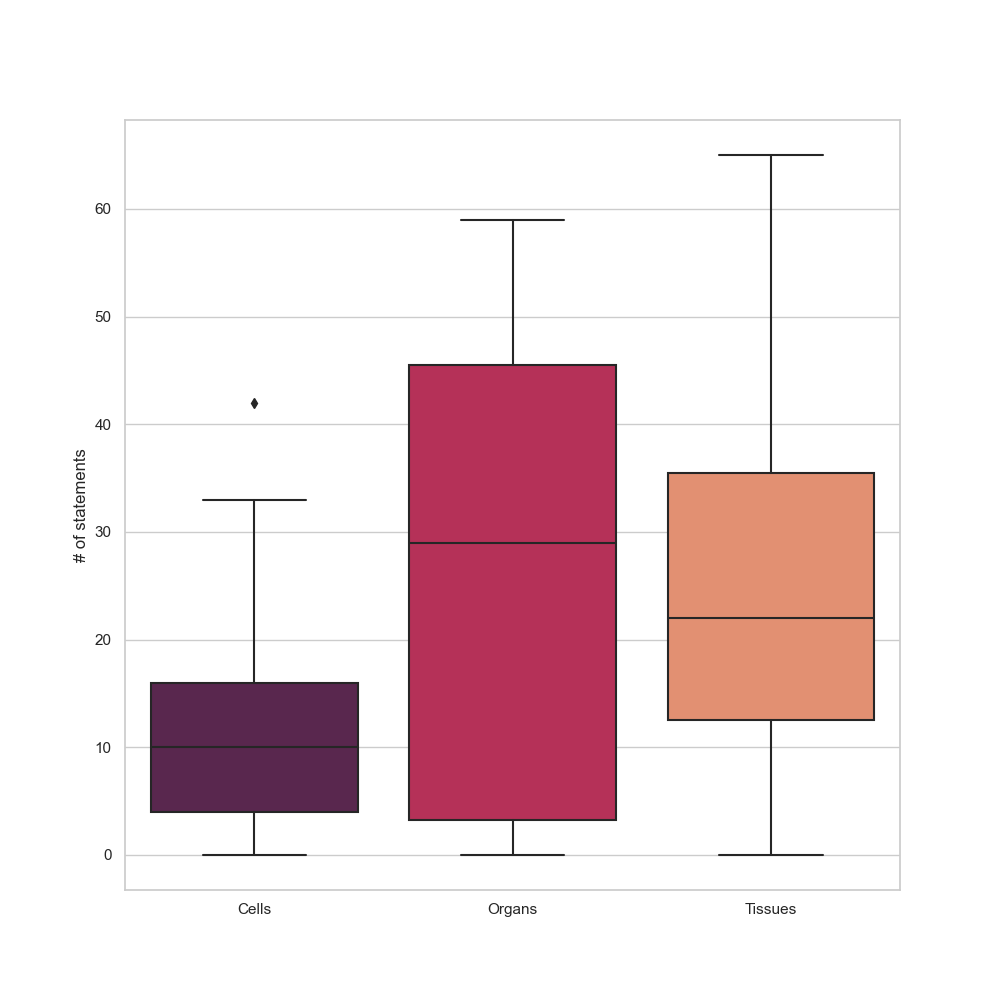
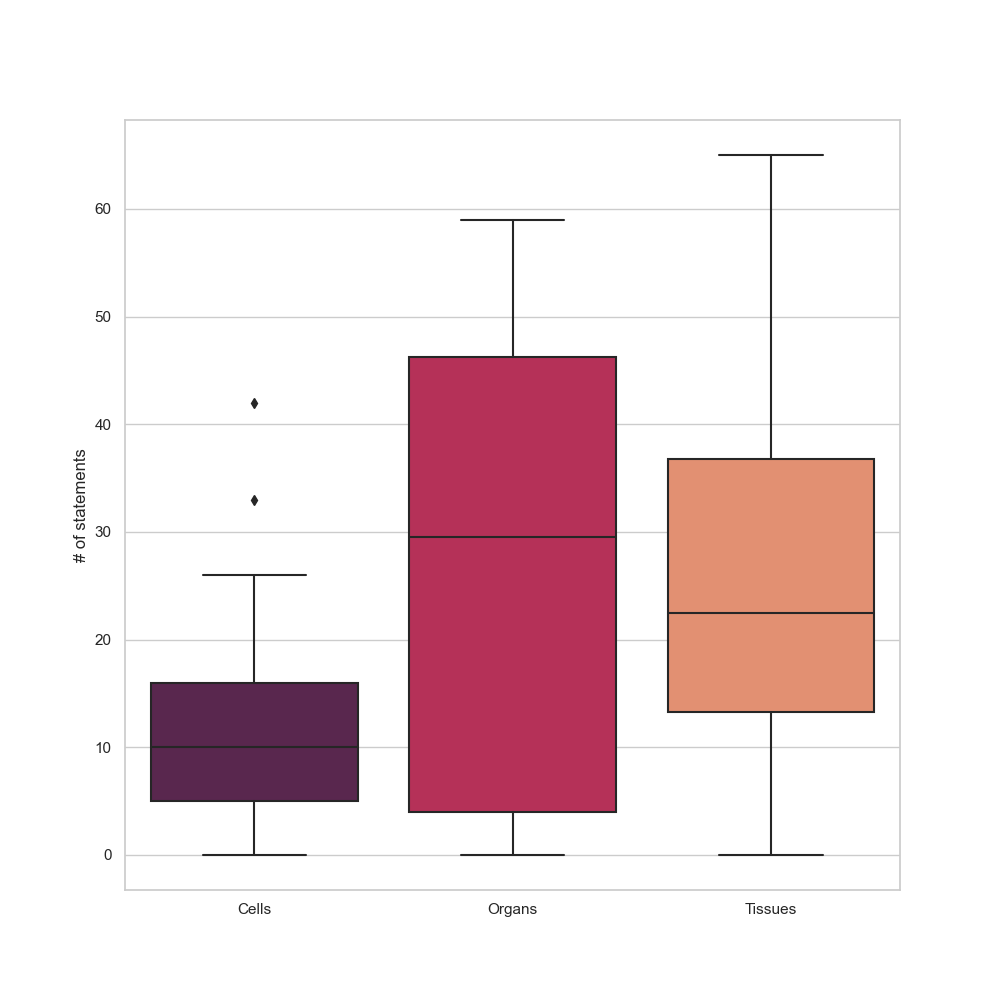
chore: Reproduce item quality assessment
Reproducing the assessment now using the matches removed by the
remove_false_matches script and including the newly reconciled organ
data. Updating the conda env.

diff --git a/manuscripts/drafts/matches.md b/manuscripts/drafts/matches.md
@@ -5,13 +5,14 @@ After reconciliation, items were manually checked for false matches - items with
 
 Depicted in Table 1 are also matches for gene data, which were acquired using manual intersection of both sources, via a Pandas inner merge. This data didn't go through reconciliation because of it's size, but since both ends are dealing with identifiers (Gene Symbol), the item matching should work much better than with histological entities, which are described in natural language.
 
-|         |   # of unique matches  |   # of matched items |   % of total items that were matched |   % of matches that were perfect |   % of matches that don‘t have P31 |
-|:--------|-------------------:|-----------------:|---------------:|---------------------------:|------------------:|
-| Cells   |                 81 |               85 |        37.6744 |                    38.8235 |           55.2941 |
-| Tissues |                 79 |               87 |        32.1138 |                    62.069  |           37.931  |
-| Organs  |                 22 |               30 |        75.8621 |                    53.3333 |           46.6667 |
-| Human Genes |                 35423 |               35427 |        60.847533 |                    NA      |           NA      |
-| Mouse Genes  |                 25124 |               25127 |        46.704962 |                    NA      |           NA      |
+|         |   # of unique matches  |   # of matched items |   % of total items that were matched |   % of matches that were perfect |   % of matches that don‘t have P31 | Totals |
+|:----------|-------------------:|-----------------:|---------------:|---------------------------:|------------------:|---------:|
+| Cells     |                 81 |               85 |        37.6744 |                    38.8235 |           55.2941 |      215 |
+| Tissues   |                 79 |               86 |        32.1138 |                    62.7907 |           37.2093 |      246 |
+| Organs    |                 22 |               30 |        75.8621 |                    60      |           40      |       29 |
+| Human Genes |              35423 |            35427 |        60.8475 |                   nan      |          nan      |    58216 |
+| Mouse Genes |              25124 |            25127 |        46.705  |                   nan      |          nan      |    53793 |
+
 Table 1: Summary of the matched entities from PanglaoDB.
 
 Afterwards, we analysed which types these reconciled items belonged to in Wikidata, which is indicated by their “instance of” (P31) property. 

diff --git a/manuscripts/log_book.md b/manuscripts/log_book.md
@@ -126,3 +126,13 @@ What we did, tried, and accomplished during each day of the project.
 
 * Created improvements/ directory, code used for improving wikidata items and creating new ones.
 * Isolated PanglaoDB's data that was missing from Wikidata.
+
+### 07/10
+
+* Reconciled organs once more, now adding "animal organ" as one of the possible reconcilable types. This will fix most missing matches.
+* Adding false match removal as a script, to avoid manually editing intermediate files.
+
+### 08/10
+
+* Committed what was done in 07/10. 
+* Reproduced item_quality assessement, now with the new reconciled organ data.
